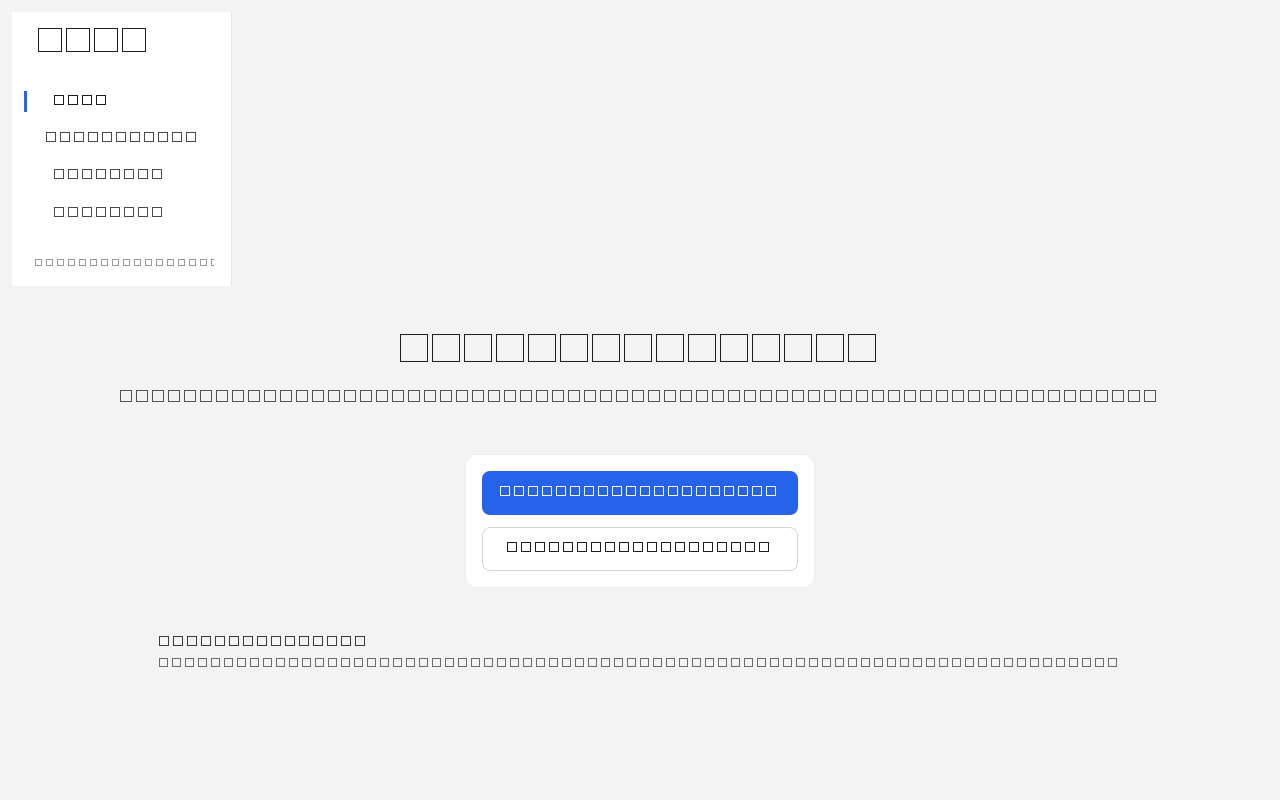
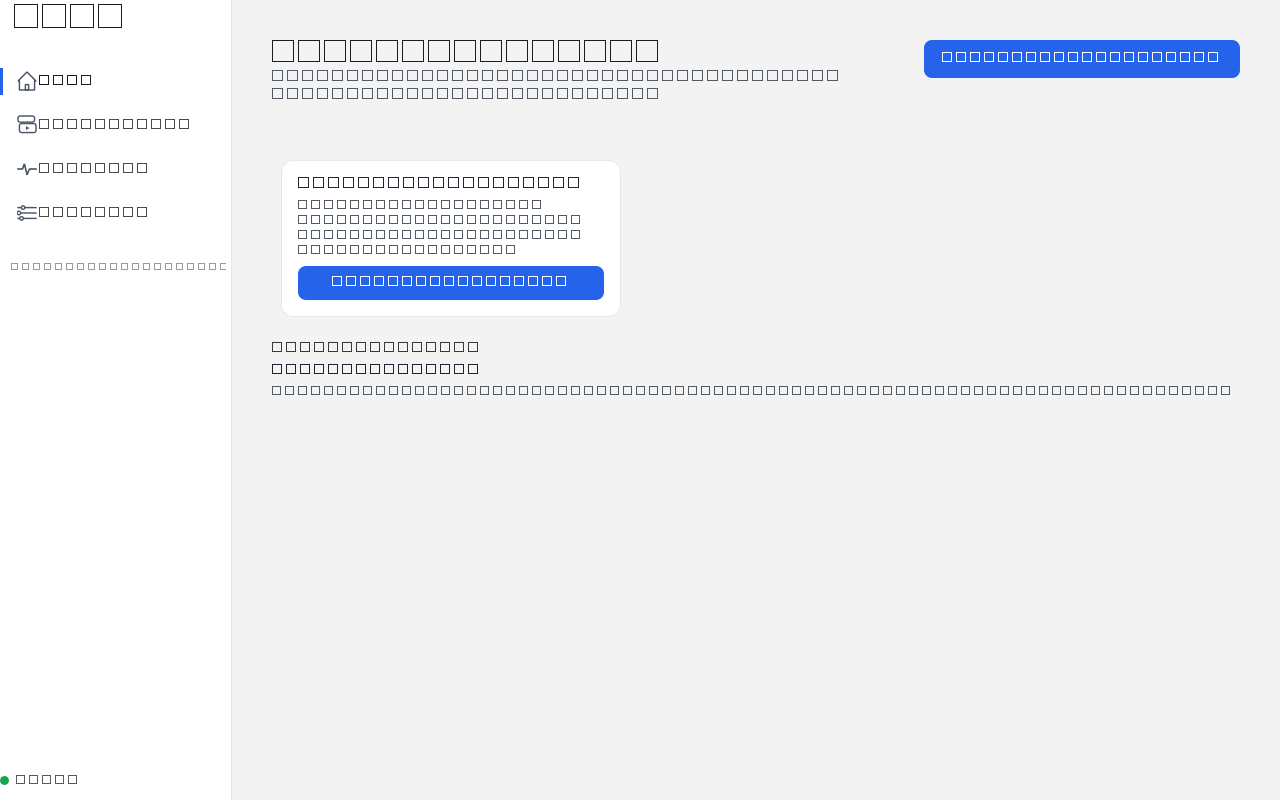
docs(ops): re-capture screenshots with P2 shell; INDEX.md
scripts/capture_screenshots.ps1 exit 0: 18/18 captures (6 pages x
1280x800 / 1366x768 / 1920x1080), all distinct + non-empty. The
captures reflect the P2 rewrite (banner, footer, cards, rows). Status:
CAPTURED, NOT REVIEWED - no human has looked at the pixels yet.

docs/screenshots/latest/INDEX.md lists every PNG with its page and
size plus the capture evidence header.

diff --git a/docs/screenshots/latest/INDEX.md b/docs/screenshots/latest/INDEX.md
@@ -1,0 +1,28 @@
+# docs/screenshots/latest/INDEX.md
+
+Captured, not reviewed.
+
+Source: `scripts/capture_screenshots.ps1` (real shell through
+`scripts/capture_shell_pages.py`, `QT_QPA_PLATFORM=offscreen`, 2026-10-31,
+capture exit code 0, all distinct + non-empty). 18 PNGs = 6 pages x 3 sizes.
+
+| File | Page | Size (bytes) |
+|---|---|---|
+| 1280x800-home.png | Home | 9796 |
+| 1280x800-my-automations.png | My automations | 10122 |
+| 1280x800-activity.png | Activity | 8563 |
+| 1280x800-settings.png | Settings | 9922 |
+| 1280x800-create-automation.png | Create automation | 9164 |
+| 1280x800-review.png | Review | 9246 |
+| 1366x768-home.png | Home | 9924 |
+| 1366x768-my-automations.png | My automations | 10219 |
+| 1366x768-activity.png | Activity | 8686 |
+| 1366x768-settings.png | Settings | 10044 |
+| 1366x768-create-automation.png | Create automation | 9327 |
+| 1366x768-review.png | Review | 9383 |
+| 1920x1080-home.png | Home | 13588 |
+| 1920x1080-my-automations.png | My automations | 14028 |
+| 1920x1080-activity.png | Activity | 12419 |
+| 1920x1080-settings.png | Settings | 13663 |
+| 1920x1080-create-automation.png | Create automation | 13023 |
+| 1920x1080-review.png | Review | 13143 |
